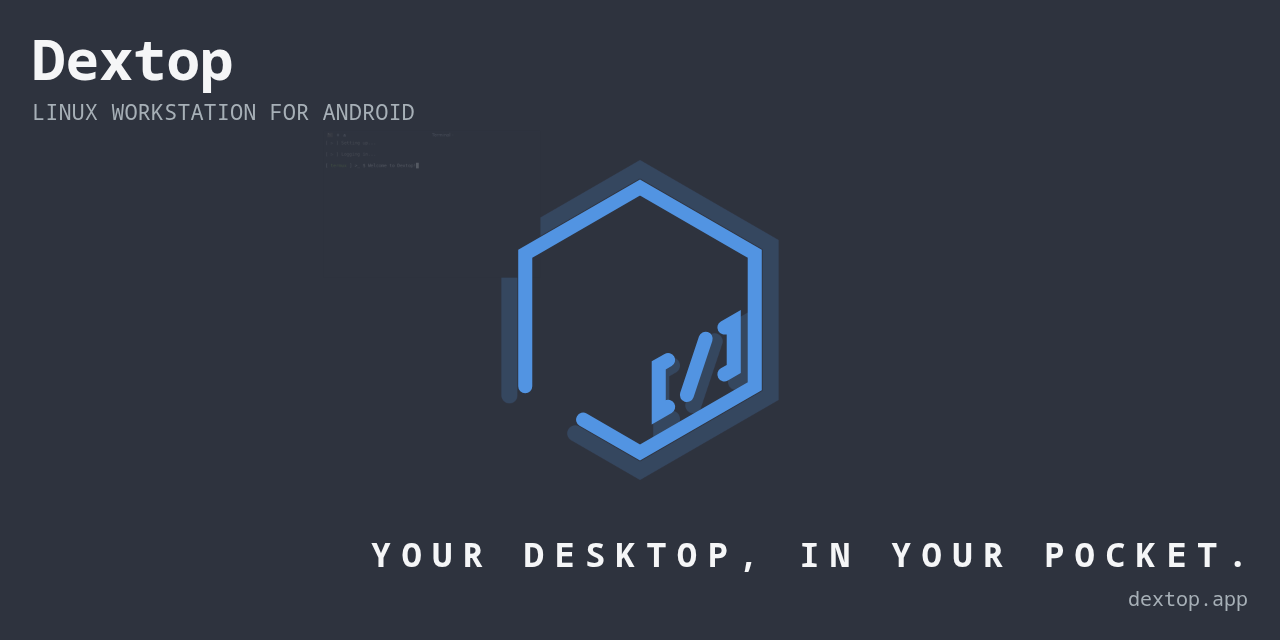
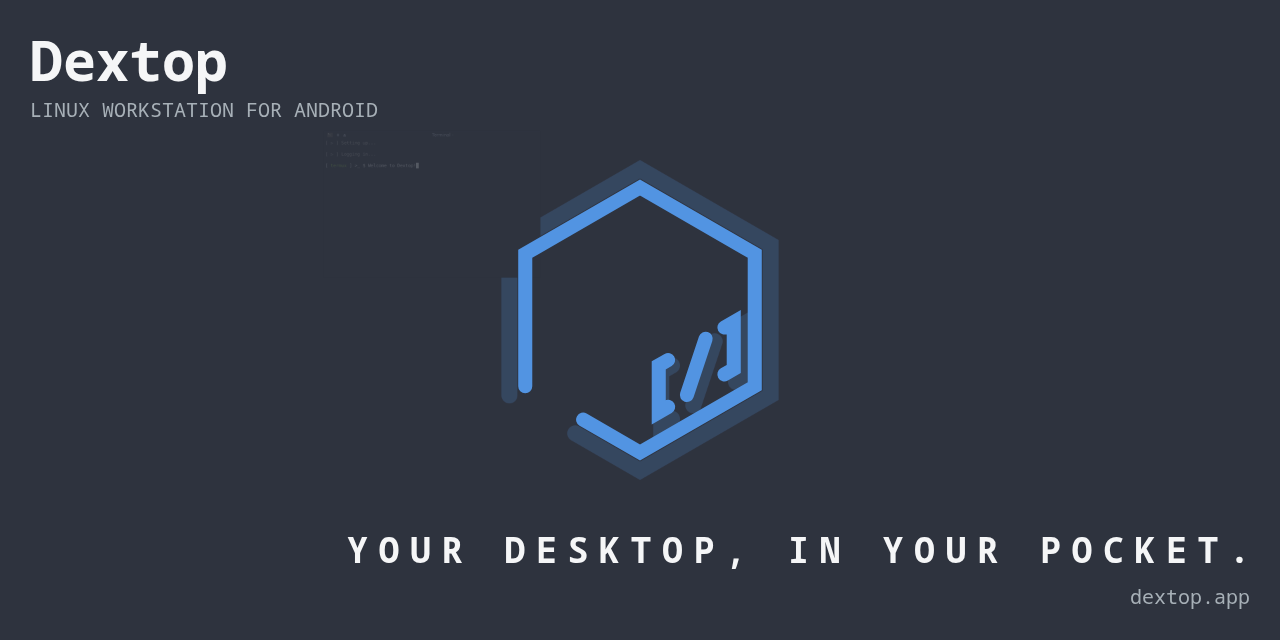
Code & Features Update

Changed region(s): [[0.25, 0.8438, 0.7812, 0.9062], [0.0, 0.0625, 0.3438, 0.1875], [0.8125, 0.8438, 0.9688, 0.9688]]

diff --git a/index.html b/index.html
@@ -130,7 +130,7 @@
 				color: #a7b0b7;
 				margin: 0;
 				padding: 0 0 100px 0;
-				font-size: 14px;
+				font-size: 15px;
 				line-height: 1.6;
 				overflow-x: hidden;
 			}
@@ -181,7 +181,7 @@
 				border-radius: 0;
 				overflow: visible;
 				color: #4b5162;
-				font-size: clamp(5px, 0.9vw, 11px);
+				font-size: clamp(5px, 0.9vw, 10px);
 				line-height: 1.1;
 				zoom: 2;
 			}
@@ -201,7 +201,7 @@
 			}
 
 			.head-landing h1 {
-				font-size: clamp(22px, 4vw, 40px);
+				font-size: clamp(20px, 4vw, 40px);
 			}
 
 			.head-landing p {
@@ -246,7 +246,7 @@
 			}
 
 			.foot-landing h2 {
-				font-size: clamp(12px, 3.3vw, 30px);
+				font-size: clamp(20px, 3.3vw, 30px);
 				white-space: nowrap;
 			}
 
@@ -299,12 +299,12 @@
 			}
 
 			.head-section h2 {
-				font-size: clamp(18px, 2.6vw, 26px);
+				font-size: clamp(20px, 2.5vw, 25px);
 			}
 
 			.section h3 {
 				margin: 30px 0 10px 0;
-				font-size: 16px;
+				font-size: 15px;
 			}
 
 			.lead {
@@ -324,7 +324,7 @@
 
 			.points li {
 				border-left: 5px solid #5294e2;
-				padding: 2.5px 0 2.5px 10px;
+				padding: 5px 0 5px 10px;
 			}
 
 			.points code {
@@ -506,7 +506,7 @@
 
 			figcaption {
 				padding: 5px 5px 0 5px;
-				font-size: 12px;
+				font-size: 10px;
 				text-align: center;
 			}
 
@@ -607,7 +607,7 @@
 				border-radius: 20px;
 				padding: 5px 10px;
 				margin: 5px 0;
-				font-size: 12px;
+				font-size: 10px;
 				white-space: nowrap;
 			}
 
@@ -620,7 +620,7 @@
 			}
 
 			pre.diagram {
-				font-size: 12px;
+				font-size: 10px;
 				line-height: 1.25;
 			}
 
@@ -684,7 +684,7 @@
 				border: 0;
 				border-radius: 20px;
 				color: #f5f6f7;
-				font-size: 14px;
+				font-size: 15px;
 				outline: none;
 			}
 
@@ -750,11 +750,11 @@
 
 			.head-command h3 {
 				margin: 0;
-				font-size: 16px;
+				font-size: 15px;
 			}
 
 			.meta-command {
-				font-size: 12px;
+				font-size: 10px;
 				color: #7c818c;
 			}
 
@@ -767,7 +767,7 @@
 				padding: 10px 15px;
 				border-radius: 10px;
 				background: #2f343f;
-				font-size: 12px;
+				font-size: 10px;
 				white-space: pre-wrap;
 			}
 
@@ -810,7 +810,7 @@
 				border-radius: 10px;
 				padding: 5px 10px;
 				margin: 0 0 5px 0;
-				font-size: 12px;
+				font-size: 10px;
 			}
 
 			.tag {
@@ -820,7 +820,7 @@
 				border-radius: 20px;
 				padding: 5px 10px;
 				margin: 5px 0;
-				font-size: 12px;
+				font-size: 10px;
 				white-space: nowrap;
 			}
 
@@ -834,7 +834,7 @@
 				background: #2f343f;
 				border-radius: 20px;
 				padding: 5px 10px;
-				font-size: 12px;
+				font-size: 10px;
 				color: #f5f6f7;
 			}
 
@@ -1000,12 +1000,12 @@
 
 			.button-navigation {
 				flex: none;
-				width: 80px;
-				padding: 10px 0 0 0;
+				min-width: 80px;
+				padding: 10px 10px 0 10px;
 				color: #a7b0b7;
 				text-align: center;
 				text-decoration: none;
-				font-size: 12px;
+				font-size: 15px;
 			}
 
 			.button-navigation .icon {
@@ -1035,7 +1035,7 @@
 				margin: 20px auto 0 auto;
 				padding: 20px 0;
 				border-top: 2px solid #404552;
-				font-size: 12px;
+				font-size: 10px;
 			}
 
 			.copyright p {
@@ -1105,7 +1105,7 @@
 				color: #f5f6f7;
 				border-radius: 20px;
 				padding: 15px 20px;
-				font-size: 12px;
+				font-size: 10px;
 				line-height: 1.4;
 				overflow-x: auto;
 				white-space: pre;
@@ -1137,7 +1137,7 @@
 				background: #383c4a;
 				border-radius: 15px;
 				padding: 10px;
-				font-size: 12px;
+				font-size: 10px;
 			}
 
 			.swatch span {
@@ -1167,7 +1167,7 @@
 
 			.command th, .command td {
 				padding: 5px 10px;
-				font-size: 12px;
+				font-size: 10px;
 			}
 
 			@media (max-width: 800px) {
